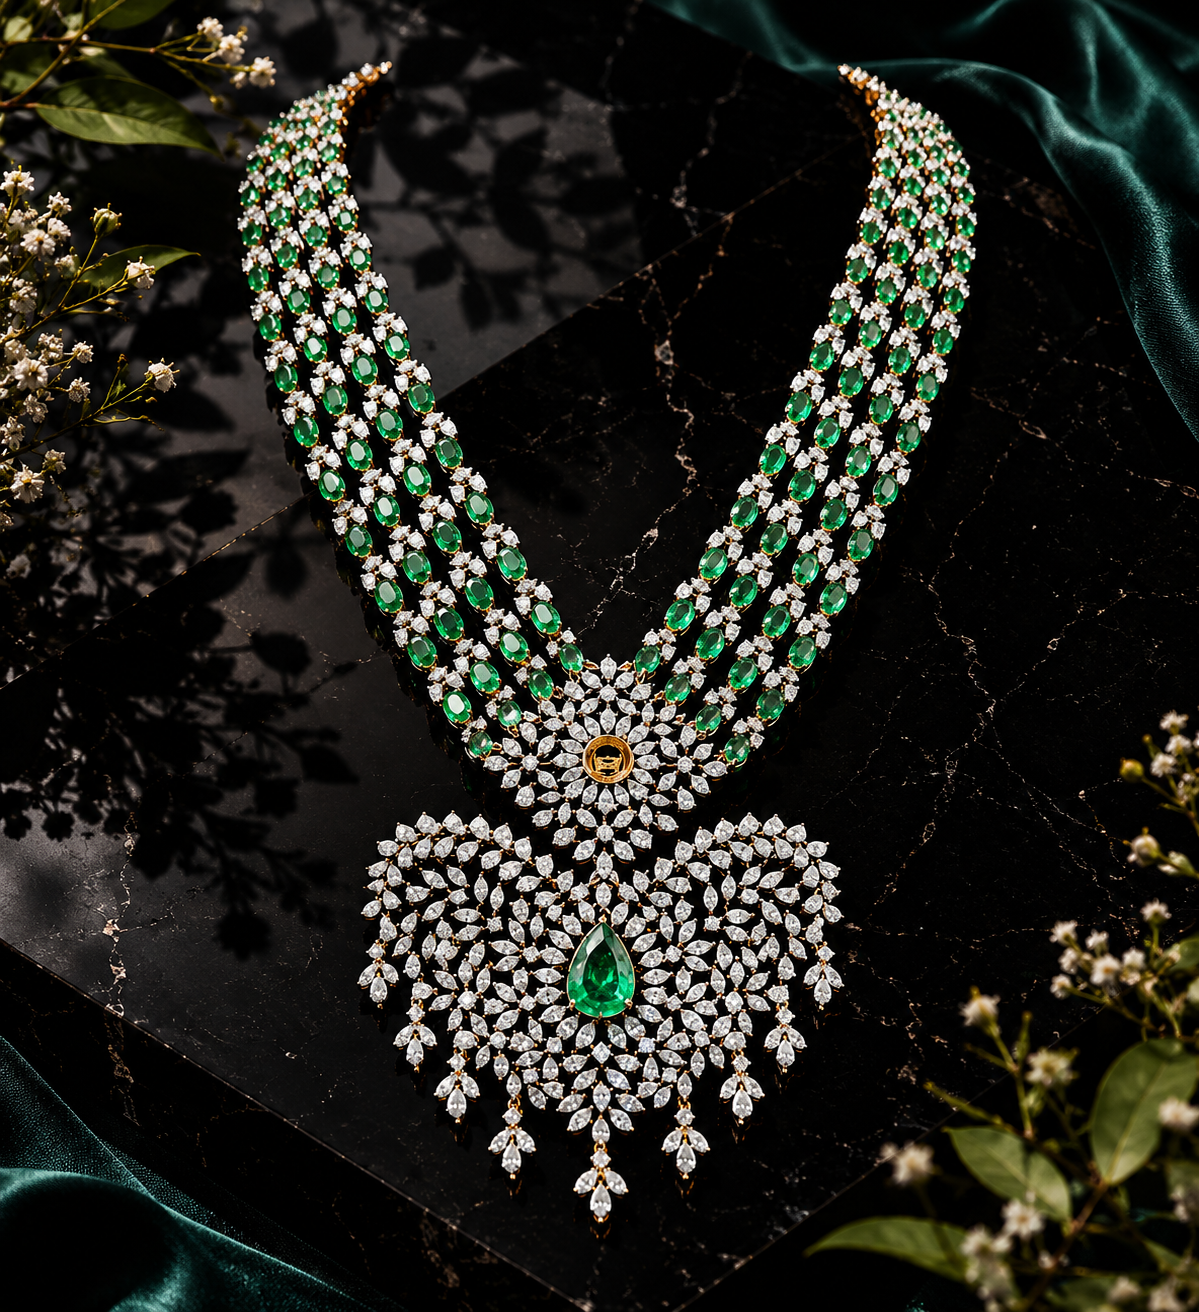
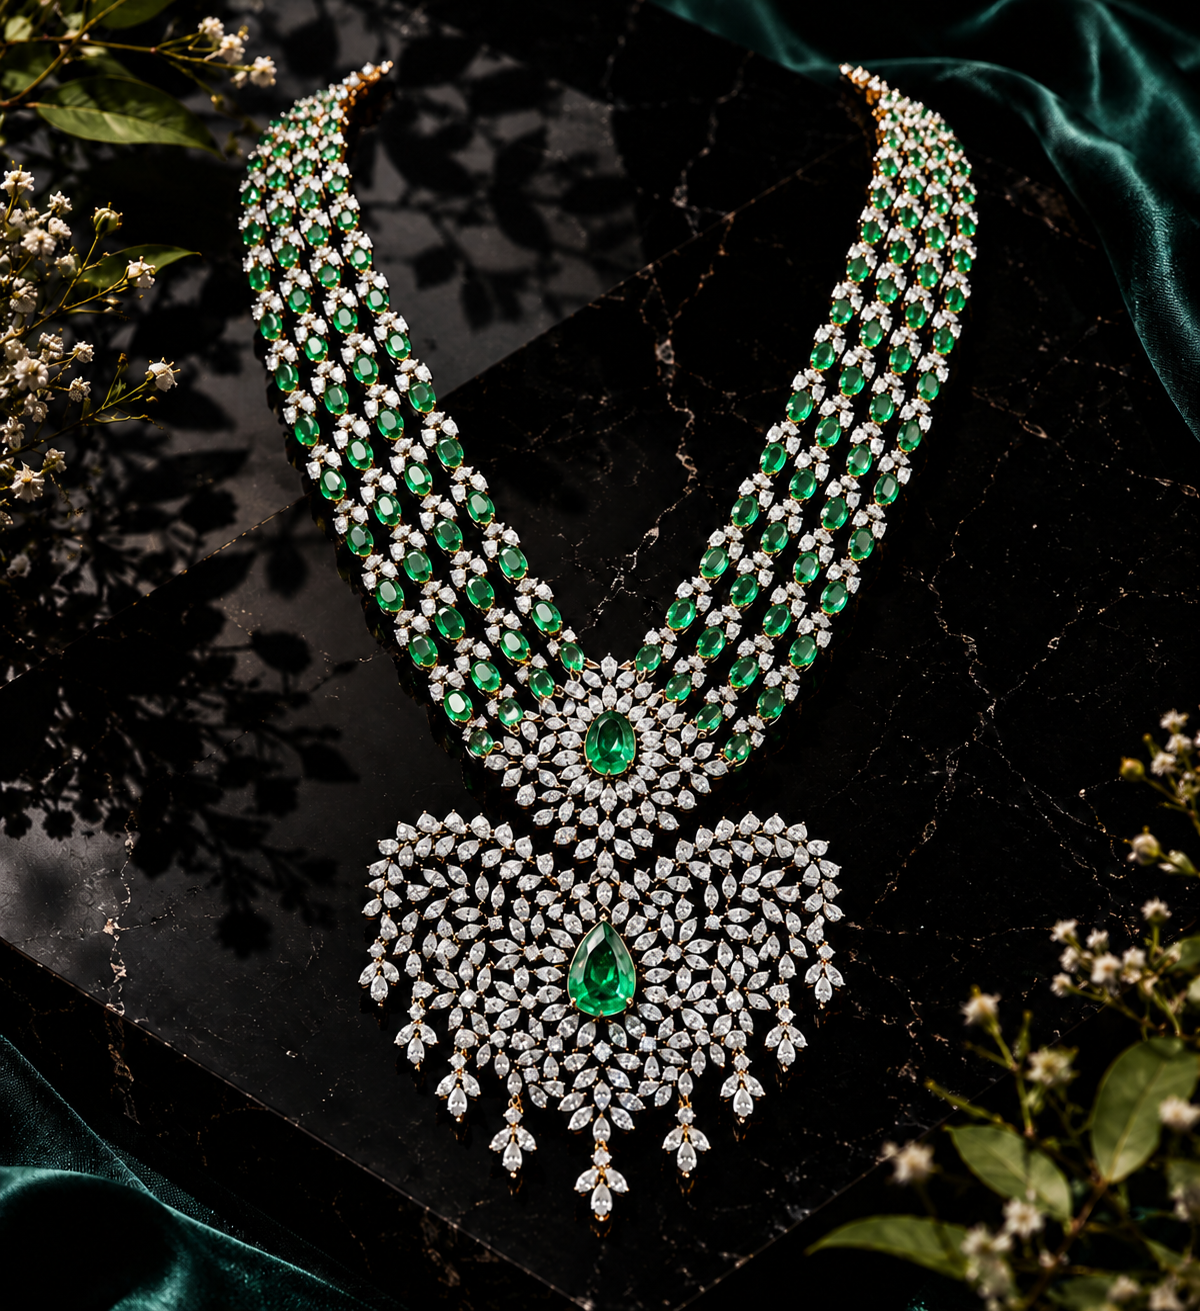
Fix dynasty-bloom image extension (2).jpg -> (2).png

diff --git a/src/data/house-collection.js b/src/data/house-collection.js
@@ -84,7 +84,7 @@ const houseCollection = [
     "hero": "Distinct silhouette. Strong luxury identity.",
     "images": [
       "dynasty-bloom-h-12695 (1).png",
-      "dynasty-bloom-h-12695 (2).jpg",
+      "dynasty-bloom-h-12695 (2).png",
       "dynasty-bloom-h-12695 (3).png"
     ],
     "onHomepage": true,

diff --git a/src/data/house-collection-entries/dynasty-bloom.md b/src/data/house-collection-entries/dynasty-bloom.md
@@ -7,7 +7,7 @@ description: Multiple emerald strands converge into an ornate floral composition
 hero: Distinct silhouette. Strong luxury identity.
 images:
   - image: /assets/images/collection/dynasty-bloom/dynasty-bloom-h-12695 (1).png
-  - image: /assets/images/collection/dynasty-bloom/dynasty-bloom-h-12695 (2).jpg
+  - image: /assets/images/collection/dynasty-bloom/dynasty-bloom-h-12695 (2).png
   - image: /assets/images/collection/dynasty-bloom/dynasty-bloom-h-12695 (3).png
 onHomepage: true
 row: 2